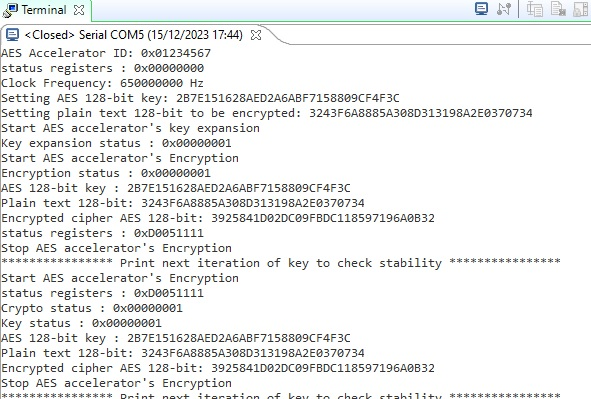
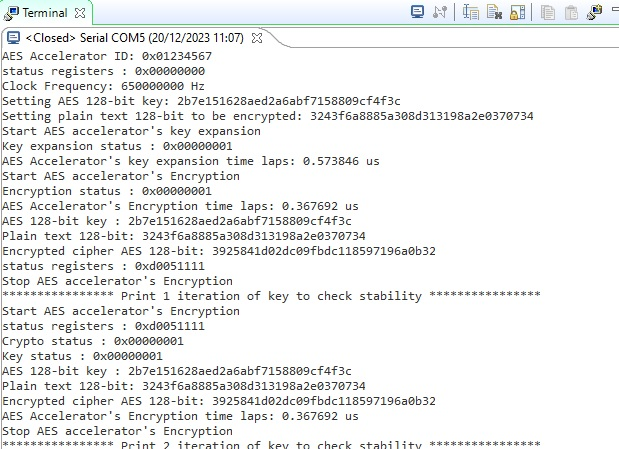
Print problem to calculate encryption time on FPGA fix, use printf

Changed region(s): [[0.0, 0.0, 1.0, 1.0], [0.4873, 0.3308, 0.6091, 0.391]]

diff --git a/device_driver/main.c b/device_driver/main.c
@@ -1,3 +1,5 @@
+#include <stdio.h>
+#include <stdint.h>
 #include "xparameters.h"
 #include "xgpio.h"
 #include "xgpiops.h"
@@ -21,80 +23,78 @@ void get_encrypted_text(unsigned int crypto[AES_WORDS_OPS]);
 
 int main (void)
 {
-	  int i= 0, j=0;
-	  unsigned int text[AES_WORDS_OPS];
-	  unsigned int key[AES_WORDS_OPS];
-	  unsigned int crypto[AES_WORDS_OPS];
-	  XTime start_XTime, stop_time;
+	  int delay= 0, iteration=0;
+	  unsigned int text[AES_WORDS_OPS], key[AES_WORDS_OPS], crypto[AES_WORDS_OPS];
+	  XTime start_AES_time, stop_AES_time;
 
 	  print_AES_Accelerator_ID();
 	  print_status_register();
-	  xil_printf("Clock Frequency: %d Hz\n\r", XPAR_CPU_CORTEXA9_CORE_CLOCK_FREQ_HZ);
+	  printf("Clock Frequency: %d Hz\n\r", XPAR_CPU_CORTEXA9_CORE_CLOCK_FREQ_HZ);
 
 	  key[0] = 0x2B7E1516;
 	  key[1] = 0x28AED2A6;
 	  key[2] = 0xABF71588;
 	  key[3] = 0x09CF4F3C;
-	  xil_printf("Setting AES 128-bit key: %08x%08x%08x%08x\n\r", key[0], key[1], key[2], key[3]);
+	  printf("Setting AES 128-bit key: %08x%08x%08x%08x\n\r", key[0], key[1], key[2], key[3]);
 	  set_key_128Bits(key);
 
 	  text[0] = 0x3243F6A8;
 	  text[1] = 0x885A308D;
 	  text[2] = 0x313198A2;
 	  text[3] = 0xE0370734;
-	  xil_printf("Setting plain text 128-bit to be encrypted: %08x%08x%08x%08x\n\r", text[0], text[1], text[2], text[3]);
+	  printf("Setting plain text 128-bit to be encrypted: %08x%08x%08x%08x\n\r", text[0], text[1], text[2], text[3]);
 	  set_plain_text(text);
 
-	  xil_printf("Start AES accelerator's key expansion\n\r");
-	  XTime_GetTime(&start_XTime);
+	  printf("Start AES accelerator's key expansion\n\r");
+	  XTime_GetTime(&start_AES_time);
 	  start_key_expansion();
-
-	  while(! (*(aes_accelerator_baseaddr_p+3)))
+	  while(! (*(aes_accelerator_baseaddr_p+3)))		// Better to use interrupts
 	  {
 	  }
-	  XTime_GetTime(&stop_time);
-	  xil_printf("Key expansion status : 0x%08x\n\r", get_key_expansion_status());
-	  //xil_printf("AES Accelerator's key expansion time laps: %f ms\n\r", (float)(stop_time - start_XTime)/(float)XPAR_CPU_CORTEXA9_CORE_CLOCK_FREQ_HZ * (float)1000);
+	  XTime_GetTime(&stop_AES_time);
+	  printf("Key expansion status : 0x%08x\n\r", get_key_expansion_status());
+	  printf("AES Accelerator's key expansion time laps: %f us\n\r", (float)(stop_AES_time - start_AES_time)/(float)XPAR_CPU_CORTEXA9_CORE_CLOCK_FREQ_HZ*1000000.0f);
 
-	  xil_printf("Start AES accelerator's Encryption\n\r");
-	  XTime_GetTime(&start_XTime);
+	  printf("Start AES accelerator's Encryption\n\r");
+	  XTime_GetTime(&start_AES_time);
 	  start_encryption();
-
-	  while(!(*(aes_accelerator_baseaddr_p+2)))
+	  while(!(*(aes_accelerator_baseaddr_p+2)))		// Better to use interrupts
 	  {
 	  }
-	  XTime_GetTime(&stop_time);
-	  xil_printf("Encryption status : 0x%08x \n\r", get_encryption_status());
-	  //xil_printf("AES Accelerator's Encryption time laps: %f ms\n\r", (float)(stop_time - start_XTime)/(float)XPAR_CPU_CORTEXA9_CORE_CLOCK_FREQ_HZ * (float)1000);
+	  XTime_GetTime(&stop_AES_time);
+	  printf("Encryption status : 0x%08x \n\r", get_encryption_status());
+	  printf("AES Accelerator's Encryption time laps: %f us\n\r", (float)(stop_AES_time - start_AES_time)/(float)XPAR_CPU_CORTEXA9_CORE_CLOCK_FREQ_HZ*1000000.0f);
 
 	  get_encrypted_text(crypto);
-	  xil_printf("AES 128-bit key : %08x%08x%08x%08x\n\r", key[0], key[1], key[2], key[3]);
-	  xil_printf("Plain text 128-bit: %08x%08x%08x%08x\n\r", text[0], text[1], text[2], text[3]);
-	  xil_printf("Encrypted cipher AES 128-bit: %08x%08x%08x%08x\n\r", crypto[0], crypto[1], crypto[2], crypto[3]);
-	  xil_printf("status registers : 0x%08x \n\r", *(aes_accelerator_baseaddr_p+17));
+	  printf("AES 128-bit key : %08x%08x%08x%08x\n\r", key[0], key[1], key[2], key[3]);
+	  printf("Plain text 128-bit: %08x%08x%08x%08x\n\r", text[0], text[1], text[2], text[3]);
+	  printf("Encrypted cipher AES 128-bit: %08x%08x%08x%08x\n\r", crypto[0], crypto[1], crypto[2], crypto[3]);
+	  printf("status registers : 0x%08x \n\r", *(aes_accelerator_baseaddr_p+17));
 
-	  xil_printf("Stop AES accelerator's Encryption\n\r");
+	  printf("Stop AES accelerator's Encryption\n\r");
 	  stop_encryption();
-	  for (i=0; i<999999999; i++);
+	  for (delay=0; delay<999999999; delay++);
 
 	  while(1)
 	  {
-		  xil_printf("**************** Print next iteration of key to check stability ****************\n\r");
-		  xil_printf("Start AES accelerator's Encryption\n\r");
+		  printf("**************** Print %d iteration of key to check stability ****************\n\r", ++iteration);
+		  printf("Start AES accelerator's Encryption\n\r");
+		  XTime_GetTime(&start_AES_time);
 		  start_encryption();
-
-		  while(!(*(aes_accelerator_baseaddr_p+2))){
+		  while(!(*(aes_accelerator_baseaddr_p+2))){		// Better to use interrupts
 		  }
+		  XTime_GetTime(&stop_AES_time);
 
-		  xil_printf("status registers : 0x%08x \n\r", *(aes_accelerator_baseaddr_p+17));
-		  xil_printf("Crypto status : 0x%08x \n\r", *(aes_accelerator_baseaddr_p+2));
-		  xil_printf("Key status : 0x%08x \n\r", *(aes_accelerator_baseaddr_p+3));
-		  xil_printf("AES 128-bit key : %08x%08x%08x%08x\n\r", key[0], key[1], key[2], key[3]);
-		  xil_printf("Plain text 128-bit: %08x%08x%08x%08x\n\r", text[0], text[1], text[2], text[3]);
-		  xil_printf("Encrypted cipher AES 128-bit: %08x%08x%08x%08x\n\r", *(aes_accelerator_baseaddr_p+12), *(aes_accelerator_baseaddr_p+13), *(aes_accelerator_baseaddr_p+14), *(aes_accelerator_baseaddr_p+15));
-		  xil_printf("Stop AES accelerator's Encryption\n\r");
+		  printf("status registers : 0x%08x \n\r", *(aes_accelerator_baseaddr_p+17));
+		  printf("Crypto status : 0x%08x \n\r", *(aes_accelerator_baseaddr_p+2));
+		  printf("Key status : 0x%08x \n\r", *(aes_accelerator_baseaddr_p+3));
+		  printf("AES 128-bit key : %08x%08x%08x%08x\n\r", key[0], key[1], key[2], key[3]);
+		  printf("Plain text 128-bit: %08x%08x%08x%08x\n\r", text[0], text[1], text[2], text[3]);
+		  printf("Encrypted cipher AES 128-bit: %08x%08x%08x%08x\n\r", *(aes_accelerator_baseaddr_p+12), *(aes_accelerator_baseaddr_p+13), *(aes_accelerator_baseaddr_p+14), *(aes_accelerator_baseaddr_p+15));
+		  printf("AES Accelerator's Encryption time laps: %f us\n\r", (float)(stop_AES_time - start_AES_time)/(float)XPAR_CPU_CORTEXA9_CORE_CLOCK_FREQ_HZ*1000000.0f);
+		  printf("Stop AES accelerator's Encryption\n\r");
 		  stop_encryption();
-		  for (i=0; i<99999999; i++);
+		  for (delay=0; delay<99999999; delay++);
 	  }
 
 	  return 0;
@@ -123,7 +123,7 @@ void stop_encryption(){
 }
 
 void print_status_register(){
-	xil_printf("status registers : 0x%08x \n\r", *(aes_accelerator_baseaddr_p+17));
+	printf("status registers : 0x%08x \n\r", *(aes_accelerator_baseaddr_p+17));
 }
 
 unsigned int get_key_expansion_status(){
@@ -134,7 +134,7 @@ unsigned int get_encryption_status(){
 	return *(aes_accelerator_baseaddr_p+2);
 }
 void print_AES_Accelerator_ID(){
-	xil_printf("AES Accelerator ID: 0x%08x \n\r", *(aes_accelerator_baseaddr_p+16));
+	printf("AES Accelerator ID: 0x%08x \n\r", *(aes_accelerator_baseaddr_p+16));
 }
 void get_encrypted_text(unsigned int crypto[AES_WORDS_OPS]){
 	crypto[0]=*(aes_accelerator_baseaddr_p+12);
